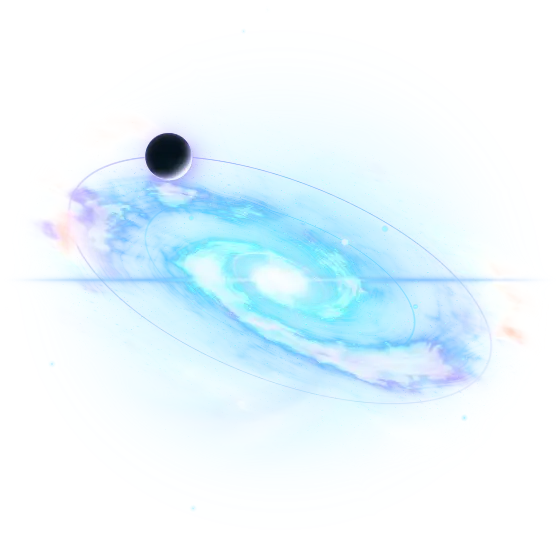
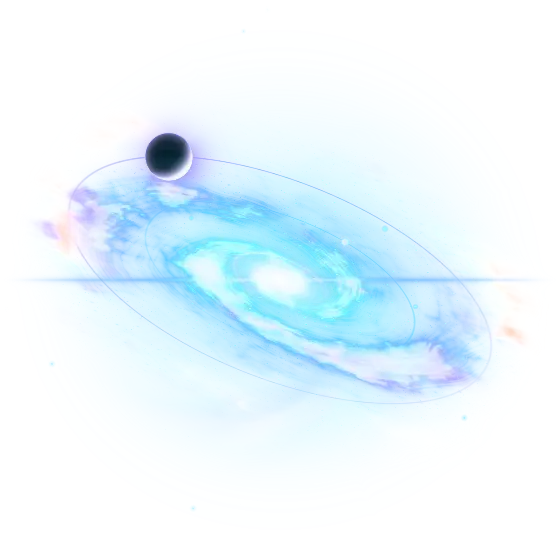
Session AR (round 1 fixes): a rim-lit planet and heavier state marks on the star (still pictures redrawn); the read-out's ring only from an answer's first line; the answer's key names its own widget; the console re-measures its wing; the Wealth hero's lower strip is whole; a goal's status on one lin
Specs changed on purpose (each 'Session AR (…, deliberate)' with an equally strict replacement): hud-elements and hud-fit
(the read-outs step aside from three widgets; where they show is nova-compose-ar 'the read-outs'), hud-fit (the pace line
whole where drawn, and drawn when the Goals HUD is a hero: a new test), hud-review2 (every ring that is drawn; today's
ring as the Habits hero's instrument), hud-elements (the Agenda clock as a compact plate at 1920), nova-setup:157 (leaves
once the conversation is stored), ar-matrix-drag (-0 is 0).

Claude-Session: https://claude.ai/code/session_015semg7JG7mnxSM4xCLdoHf

Changed region(s): [[0.2429, 0.2125, 0.3643, 0.3339]]

diff --git a/apps/web/tests/grok53/hud/hud-fit.spec.ts b/apps/web/tests/grok53/hud/hud-fit.spec.ts
@@ -58,14 +58,18 @@ for (const [width, height, least] of [[1440, 900, 3], [1920, 1080, 4]] as const)
     for (const id of ['health-hud', 'habits-hud', 'goals-hud', 'wealth-hud']) expect(panels.map(p => p.id), id).toContain(id);
     // The Goals pace line and its projection's names are in view at the medium size (they never showed before).
     const goals = panel(page, 'Goals HUD');
-    if (await goals.locator('.holo-pace-chart').count()) await expect(goals.locator('.holo-pace-chart svg')).toBeInViewport({ratio: 1});
+    // Session AR (P3, deliberate): in the Showcase's arrangement the Goals HUD is a supporting panel (its three arcs); the
+    // pace line is drawn where the panel has room for it, and wherever it is drawn it is whole in the window. That it IS
+    // drawn at this size when the Goals HUD is its wing's hero is the test under this loop.
+    if (await goals.locator('.holo-pace-chart svg').isVisible()) await expect(goals.locator('.holo-pace-chart svg')).toBeInViewport({ratio: 1});
     // The core's readout and the words under the orb clear the command field; NOVA's name and state clear the rings.
     const foot = (await page.locator('.nova-foot').boundingBox())!;
-    // Session AM (design review AM-D33, deliberate): the read-out shows where the star's column has room for it (1920) and
-    // is hidden, not squeezed, at 1440; where it shows it clears the command field as before.
+    // Session AR (round 1, deliberate): from three widgets the four read-outs step aside on the composed stage, at every
+    // width (they are in the page, hidden; where they show and clear the command field is tests/nova-compose-ar.spec.ts,
+    // "the read-outs"). The greeting and the day line clear the command field as before.
     const readout = page.locator('.holo-core-readout');
-    if (width >= 1920) await expect(readout).toBeVisible(); else await expect(readout).toBeHidden();
-    for (const sel of [...(width >= 1920 ? ['.holo-core-readout'] : []), '.nova-greeting', '.nova-dayline']) {
+    await expect(readout).toBeHidden();
+    for (const sel of ['.nova-greeting', '.nova-dayline']) {
       const b = (await page.locator(sel).boundingBox())!;
       expect(b.y + b.height, `${sel} above the command field`).toBeLessThanOrEqual(foot.y + 0.5);
     }
@@ -73,9 +77,30 @@ for (const [width, height, least] of [[1440, 900, 3], [1920, 1080, 4]] as const)
     expect(name.y + name.height, 'NOVA’s name above the rings').toBeLessThanOrEqual(rings.y + 1);
     expect(state.y, 'the state under the rings').toBeGreaterThanOrEqual(rings.y + rings.height - 1);
     // AM-D33, deliberate: the four read-outs are a named list where they show (1920); at 1440 the same four are in the page, hidden.
-    if (width >= 1920) await expect(page.getByRole('list', {name: 'Today’s core'}).locator('li')).toHaveCount(4); else await expect(readout.locator('li')).toHaveCount(4);
+    await expect(readout.locator('li')).toHaveCount(4);
   });
 }
+
+test('B2 (Session AR): as its wing’s hero at 1440 × 900 the Goals HUD draws its pace line, whole and in view', async ({page}) => {
+  await page.setViewportSize({width: 1440, height: 900});
+  await page.clock.install({time: NOON});
+  await showcaseNova(page);
+  // The Showcase's own arrangement with the Goals HUD first (its records live in the session's storage).
+  await page.evaluate(key => {
+    const k = Object.keys(sessionStorage).find(x => x.endsWith(`:${key}`))!, record = JSON.parse(sessionStorage.getItem(k)!) as {widgets: {id: string; size: string; slot: number}[]};
+    const first = record.widgets.filter(w => w.id === 'goals-hud'), rest = record.widgets.filter(w => w.id !== 'goals-hud');
+    sessionStorage.setItem(k, JSON.stringify({...record, widgets: [...first, ...rest].map((w, slot) => ({...w, slot}))}));
+  }, NOVA_KEY);
+  await page.goto('/app/nova'); await hydrated(page);
+  await expect(frame(page)).toHaveAttribute('data-opening', 'done', {timeout: 10_000});
+  const goals = panel(page, 'Goals HUD');
+  await expect(goals).toHaveAttribute('data-tier', 'hero');
+  await expect(goals.locator('.holo-pace-chart svg')).toBeVisible();
+  await expect(goals.locator('.holo-pace-chart svg')).toBeInViewport({ratio: 1});
+  await expect(goals.getByText('Estimate', {exact: true})).toHaveCount(1);
+  const panels = await besideTheStar(page), mine = panels.find(p => p.id === 'goals-hud')!;
+  expect(mine.outside, 'every drawing inside the panel').toBe(0); expect(mine.cut).toBe(false); expect(mine.overflow).toBeLessThanOrEqual(1);
+});
 
 test('M2: on the Health HUD preset the large panel is a wide hero, its histogram whole', async ({page}) => {
   await page.setViewportSize({width: 1440, height: 900});

diff --git a/apps/web/components/nova/nova-dashboard.tsx b/apps/web/components/nova/nova-dashboard.tsx
@@ -148,7 +148,11 @@ function useWingWidth(frame: {current: HTMLElement | null}, on: boolean): number
       setWing(was => was === next ? was : next);
     };
     read();
+    // Session AR: the wing and the star's column are watched too. On the composed stage the column is set in px a render
+    // after the stage's width changes ("the star makes room"), so the wing can change while the stage's own box does not;
+    // the console then kept the width of a wing that no longer was (66 px wider than it: p3-nova-polish ND-7).
     const observer = new ResizeObserver(read); observer.observe(main); observer.observe(centre);
+    for (const part of main.querySelectorAll<HTMLElement>(':scope > .nova-orbit-side[data-side=right], :scope > .nova-orbit-centre')) observer.observe(part);
     return () => observer.disconnect();
   }, [frame, on]);
   return wing;
@@ -576,7 +580,12 @@ export default function NovaDashboard() {
   const star = <LoadBoundary quiet onFail={onStarFail}><Suspense fallback={null}><StarSystem state={shownOrb} hud={hudMove.state} accent={accent} phone={phone} size={starSize} column={plan ? plan.column : stage.shown.length && !phone && hudWide > 900 ? Math.round(starColumn) : undefined} beam={beam} onReport={onStarReport} onMount={onStarMount}/></Suspense></LoadBoundary>;
   const starWhy = starLost ? {kind: 'picture', text: STAR_NO_CODE_TEXT} : starReport && (starReport.why || starReport.always) ? {kind: starReport.why?.kind ?? 'running', text: starReport.why?.text ?? 'The star is running', details: starReport.details, open: starReport.always} : null;
   // Design review AM-D18: from the answer, one keypress to the widget it made (the newest one that is still on the stage).
-  const answerWidget = lastMade && stage.shown.some(w => w.id === lastMade) ? {id: lastMade, title: widgetSpec(lastMade)?.title ?? 'the widget'} : null;
+  // Session AR (round 1, both critics: an answer about bills offered "Go to Habits this week"): the key names a widget
+  // of THIS answer that stands on the stage. It named the widget made last, whatever was asked since; an answer that made
+  // no widget has no such key.
+  const answerOwn = answerNow?.widgets?.find(id => stage.shown.some(w => w.id === id)) ?? (answerNow && !answerNow.widgets ? null : undefined);
+  const answerId = answerOwn === undefined ? (lastMade && stage.shown.some(w => w.id === lastMade) ? lastMade : null) : answerOwn;
+  const answerWidget = answerId ? {id: answerId, title: widgetSpec(answerId)?.title ?? 'the widget'} : null;
   const goToWidget = (id: string) => { const el = root.current?.querySelector<HTMLElement>(`article[data-widget="${id}"]`); if (el) { el.scrollIntoView({block: 'nearest'}); el.focus({preventScroll: true}); } };
   const answerLine = answerNow && !chatOpen ? <StageAnswerLine answer={answerNow} persona={persona.name} onOpen={openChat} onDismiss={() => setAnswer(null)} widget={answerWidget} onGoTo={goToWidget}/> : undefined;
   const stageNode = <NovaStage persona={persona} orb={shownOrb} greeting={greeting} typingFrom={opening.phase === 'play' ? opening.startedAt : null} counts={counts} showcase={showcase && phone} onTalk={openChat} talkOpen={chatOpen} core={core} star={star} starOn={starDraws} starStandIn={starStandIn} accent={accent} starBox={starBox} starSize={starSize} starColumn={plan ? plan.column : stage.shown.length && !phone && hudWide > 900 ? Math.round(starColumn) : undefined} starWhy={starWhy} answer={answerLine}/>;

diff --git a/apps/web/components/nova/stage/command-centre.css b/apps/web/components/nova/stage/command-centre.css
@@ -192,6 +192,8 @@
 .nova-frame[data-look=holo]:not([data-phone]) .nova-orbit-main[data-compose] > .nova-orbit-side[data-side=right] > .nova-widget[data-holo][data-tier] { justify-self: end; }
 .nova-frame:not([data-phone]) .nova-orbit-main[data-compose] .nova-widget[data-holo][data-tier=hero]:not([data-dragging]):not(#\-) { --rim: 2.2px; }
 .nova-orbit-main[data-compose] .nova-widget[data-holo][data-tier=hero] > .holo-aura { box-shadow: var(--holo-bloom), 0 0 84px 8px color-mix(in srgb, var(--neon, #9273ff) 30%, transparent); }
+/* A Large hero keeps the Large panel's own magenta haze (holo.css) under the hero's. */
+.nova-orbit-main[data-compose] .nova-widget[data-holo][data-tier=hero][data-size=L] > .holo-aura { box-shadow: var(--holo-bloom), 0 0 84px 8px color-mix(in srgb, var(--neon, #9273ff) 30%, transparent), 0 0 90px 10px #f06dff2b; }
 .nova-frame:not([data-phone]) .nova-orbit-main[data-compose] .nova-widget[data-holo][data-tier=supporting]:not([data-dragging]):not(#\-) { --rim: 1px; }
 .nova-orbit-main[data-compose] .nova-widget[data-holo][data-tier=supporting] > .holo-aura { opacity: .45; }
 .nova-orbit-main[data-compose] .nova-widget[data-holo][data-tier=supporting] > .holo-brackets { opacity: .5; }
@@ -205,3 +207,18 @@
    bezel's pillar arcs carry the same four): the populated stage has one hierarchy. They stay in the page, hidden as on a
    narrower stage, and show again with one or two widgets and on the calm stage. */
 .nova-frame[data-fill=full]:not([data-phone]) .nova-stage .holo-core-readout { display: none; }
+
+/* ==== Session AR, round 1 (both critics: "the four states differ only in tick detail") ====
+   In a state the standby bezel steps back and the state's own mark carries the weight, so each state is a different
+   SHAPE at a glance: listening a heavy lit ring with long ticks pointing in, thinking a thick ring in segments, speaking a
+   ticked rim with two strong rings inside it. Static drawings; only opacity changes, once per change of state. */
+.cc-bezel :is(.cc-bezel-line, .cc-bezel-ticks, .cc-bezel-marks, .cc-bezel-arc, .cc-bezel-glow) { transition: opacity .35s ease-out; }
+.cc-bezel:is([data-state=listening], [data-state=thinking], [data-state=speaking]) :is(.cc-bezel-line, .cc-bezel-ticks, .cc-bezel-marks, .cc-bezel-arc, .cc-bezel-glow) { opacity: .22; }
+.cc-state-ring { stroke-width: 2.6; }
+.cc-state-ticks { stroke-width: 8.4; }
+.cc-state-faint { stroke-width: 1.2; opacity: .8; }
+.cc-state-thinking .cc-state-ring { stroke-width: 4.2; }
+.cc-state-thinking .cc-state-faint { stroke-width: 2.4; }
+.cc-state-speaking .cc-state-ring { stroke-width: 3.2; }
+@media (prefers-reduced-motion: reduce) { .cc-bezel :is(.cc-bezel-line, .cc-bezel-ticks, .cc-bezel-marks, .cc-bezel-arc, .cc-bezel-glow) { transition: none; } }
+:root[data-app-motion=off] .cc-bezel :is(.cc-bezel-line, .cc-bezel-ticks, .cc-bezel-marks, .cc-bezel-arc, .cc-bezel-glow) { transition: none; }

diff --git a/apps/web/tests/grok53/hud/hud-elements.spec.ts b/apps/web/tests/grok53/hud/hud-elements.spec.ts
@@ -48,8 +48,10 @@ for (const [width, height] of [[1440, 900], [1920, 1080]] as const) {
     const core = page.locator('.holo-core-readout[aria-label="Today’s core"]');
     await expect(core.locator('li')).toHaveCount(4);
     await expect(core.locator('li .holo-core-bar')).toHaveCount(4);
-    if (width >= 1920) { await expect(page.getByRole('list', {name: 'Today’s core'})).toBeVisible(); await expect(page.getByRole('list', {name: 'Today’s core'}).getByRole('listitem')).toHaveCount(4); }
-    else { await expect(core).toBeHidden(); await expect(page.getByRole('list', {name: 'Today’s core'})).toHaveCount(0); }
+    // Session AR (round 1, deliberate): on the composed stage the four read-outs step aside from three widgets (the panels
+    // beside the star and the bezel's pillar arcs say the same four), at every width; they stay in the page as above.
+    // Where they show and read as a list (one or two widgets at 1920) is tests/nova-compose-ar.spec.ts, "the read-outs".
+    await expect(core).toBeHidden(); await expect(page.getByRole('list', {name: 'Today’s core'})).toHaveCount(0);
 
     // Health (medium, beside the star): the kcal ring and its meters, each with its target in words, and its table.
     const health = panel(page, 'Health HUD');
@@ -78,7 +80,12 @@ for (const [width, height] of [[1440, 900], [1920, 1080]] as const) {
 
     // Habits (segmented orbit rings), the Agenda clock (its hours in words) and every instrument's table.
     await expect(panel(page, 'Habits HUD').locator('.holo-stack-box')).toBeVisible();
-    await expect(panel(page, 'Agenda clock').locator('.holo-dial-hour')).toHaveCount(4);
+    // Session AR (P3, deliberate): on the composed stage the Agenda clock is a compact plate at 1920 (its dial at the
+    // plate's height with the day's figure beside it) and rests on the band at 1440 as the Medium body with its four hour
+    // words; its table says the hours either way (the next line).
+    const agenda = panel(page, 'Agenda clock');
+    if (await agenda.getAttribute('data-size') === 'S') { await expect(agenda).toHaveAttribute('data-tier', 'compact'); await expect(agenda.locator('.holo-ring').first()).toBeVisible(); }
+    else await expect(agenda.locator('.holo-dial-hour')).toHaveCount(4);
     for (const name of ['Health HUD', 'Habits HUD', 'Goals HUD', 'Wealth HUD', 'Agenda clock']) await expect(panel(page, name).locator('table caption'), name).toHaveCount(1);
     // Review p3: the lens ring is the core's alone.
     await expect(page.locator('.nova-widget .holo-lens')).toHaveCount(0);

diff --git a/apps/web/tests/grok53/hud/hud-review2.spec.ts b/apps/web/tests/grok53/hud/hud-review2.spec.ts
@@ -80,8 +80,14 @@ for (const [width, height] of [[1280, 720], [1440, 900], [1920, 1080]] as const)
     await goals.scrollIntoViewIfNeeded();
     expect(await outsideItsPanel(page, '.nova-widget[data-widget="goals-hud"]')).toEqual([]);
     if (await goals.locator('.holo-pace-chart').count()) await expect(goals.getByText('Estimate', {exact: true})).toHaveCount(1);
-    for (const sel of ['.holo-health .holo-ring', '.holo-habits .holo-dial']) {
+    // Session AR (Part 2, deliberate): as its wing's hero the Habits HUD's instrument is today's ring; its 30-day dial is
+    // drawn where the panel is a supporting one or rests on the band. Every ring that is drawn is checked as before;
+    // today's ring carries its word ("today") inside it by design, so it is checked for its figure.
+    let checked = 0;
+    for (const sel of ['.holo-health .holo-ring', '.holo-habits .holo-dial', '.holo-habits .holo-today']) {
       const ring = page.locator(sel).first();
+      if (!await ring.isVisible()) continue;
+      checked++;
       await ring.scrollIntoViewIfNeeded();
       const g = await ring.evaluate(el => {
         const b = el.getBoundingClientRect(), fig = el.querySelector('.holo-ring-centre .holo-num-ring')!.getBoundingClientRect(), words = el.querySelector('.holo-ring-centre small')?.getBoundingClientRect();
@@ -92,8 +98,9 @@ for (const [width, height] of [[1280, 720], [1440, 900], [1920, 1080]] as const)
       });
       expect(g.figWidth, `${sel}: the figure is narrower than the ring's inside`).toBeLessThanOrEqual(g.inner);
       expect(g.corner, `${sel}: the figure's box stays inside the ring's stroke`).toBeLessThanOrEqual(g.inner / 2 + 6);
-      expect(g.wordsBelow, `${sel}: its words sit under the ring`).toBe(true);
+      if (!sel.endsWith('.holo-today')) expect(g.wordsBelow, `${sel}: its words sit under the ring`).toBe(true);
     }
+    expect(checked, 'the kcal ring and at least one of the Habits HUD’s rings are drawn').toBeGreaterThanOrEqual(2);
   });
 }
 

diff --git a/apps/web/lib/nova/core/star-shader.ts b/apps/web/lib/nova/core/star-shader.ts
@@ -168,13 +168,16 @@ void main(){
     vec2 n = d/pr; float nz = sqrt(max(0., 1.-dot(n,n)));
     vec3 nrm = normalize(vec3(n, nz)); vec3 L = normalize(vec3(-po/max(length(po), 1e-4), -.12));
     float lit = max(0., dot(nrm, L));
-    float rim = sq(1.-nz)*sqrt(max(1.-nz, 0.)), facing = max(0., dot(n, -po/max(length(po), 1e-4)));
-    // A body in every frame: a dark globe with faint bands, a thin lit limb all the way round, brightest toward the core.
+    float rim = sq(1.-nz), facing = max(0., dot(n, -po/max(length(po), 1e-4)));
+    // A body in every frame: a dark globe with faint bands, a lit limb all the way round, brightest toward the core.
+    // Session AR (round 1, both critics: "the planet reads as a hole cut into the bezel"): the limb is wider and
+    // brighter, the hemisphere that faces the core carries its light, and the bands show: a rim-lit planet, not a disc
+    // of black (owner screenshot 4).
     float cres = sq(sq(lit)) * lit;
-    vec3 pc = vec3(.008,.011,.034) + uA * .075 * nz * (.6 + .4*noise(vec2(n.y*9., 2.))) + mix(uC, vec3(1.), .78) * (cres * 2.6 + sq(lit)*.35) + mix(uB, vec3(1.), .5) * rim * (1.1 + 5.6*facing);
+    vec3 pc = vec3(.012,.016,.046) + uA * .17 * nz * (.6 + .4*noise(vec2(n.y*9., 2.))) + mix(uC, vec3(1.), .78) * (cres * 3.1 + sq(lit)*.8) + mix(uB, vec3(1.), .5) * rim * (1.9 + 6.4*facing);
     col = mix(col, pc, solid);
   }
-  col += uB * exp(-max(pd-pr, 0.)*70.) * (.16 + .3*max(0., dot(d, -po)/max(pd*length(po), 1e-4))) * (1.-behind) * (1.-body);
+  col += uB * exp(-max(pd-pr, 0.)*52.) * (.26 + .5*max(0., dot(d, -po)/max(pd*length(po), 1e-4))) * (1.-behind) * (1.-body);
   // ---- fade to nothing at the edge; a filmic curve that keeps the colours' own hue ----
   col *= dn(.28,.5, rr);
   // Beside widgets the star may be wider than its column: its light dissolves toward the wings (uEdge: half the column's

diff --git a/apps/web/tests/nova-setup.spec.ts b/apps/web/tests/nova-setup.spec.ts
@@ -165,6 +165,18 @@ test('planet 4: a first question is asked on NOVA itself (one shared history) un
   await expect(page.locator('.nova-turn').filter({hasText: 'What does my day look like?'}).first()).toBeVisible();
   // Answered on the device (NOVA's local answers) or by the MOCK local model: either way one question and one answer.
   await expect(page.locator('.nova-turn-assistant').first()).toBeVisible();
+  // Session AR (nova-setup:157, deliberate; every assertion unchanged): the conversation is written to the device a moment
+  // after the answer is drawn (the database is opened, then the write commits), and a browser drops a write that has not
+  // committed when its page is left. This spec left within the same frame, so under load the check below found nothing
+  // (the phone project in a sandbox on every build; the desktop project under two workers). It now leaves once the device
+  // holds the question and its answer, as a person who has read the answer does.
+  await expect.poll(() => page.evaluate(() => new Promise<number>(resolve => {
+    const request = indexedDB.open('zigoals-ai-chats-v1');
+    request.onerror = () => resolve(0);
+    request.onsuccess = () => { const db = request.result; if (!db.objectStoreNames.contains('chats')) { db.close(); resolve(0); return; }
+      const all = db.transaction('chats').objectStore('chats').getAll(); all.onerror = () => { db.close(); resolve(0); };
+      all.onsuccess = () => { db.close(); resolve(Math.max(0, ...(all.result as {turns?: unknown[]}[]).map(c => c.turns?.length ?? 0))); }; };
+  })), {timeout: 15_000}).toBeGreaterThanOrEqual(2);
   await page.goto('/app/nova/setup');
   const again = await open(page, 'First conversation', 'first-chat');
   await check(again, /Check my conversation/);

diff --git a/apps/web/tests/nova-compose-ar.spec.ts b/apps/web/tests/nova-compose-ar.spec.ts
@@ -180,6 +180,23 @@ test('P3: while arranging, panels show in their stored sizes on the earlier rows
   expect((await stageOf(page)).composed).toBe(false);
 });
 
+test('the read-outs: with one or two widgets at 1920 × 1080 the four read-outs under the star are a list, clear of the command field; from three widgets they step aside', async ({page}) => {
+  await page.setViewportSize({width: 1920, height: 1080});
+  await page.clock.install({time: NOON});
+  await showcaseNova(page, PILLARS.slice(0, 2));
+  const list = page.getByRole('list', {name: 'Today’s core'});
+  await expect(list).toBeVisible();
+  await expect(list.getByRole('listitem')).toHaveCount(4);
+  await expect(list.locator('li .holo-core-bar')).toHaveCount(4);
+  const foot = (await page.locator('.nova-foot').boundingBox())!, box = (await list.boundingBox())!;
+  expect(box.y + box.height, 'the read-outs end above the command field').toBeLessThanOrEqual(foot.y + 0.5);
+  const s = await stageOf(page);
+  expect(overlap({x: box.x, y: box.y, w: box.width, h: box.height}, s.ring), 'the read-outs stand under the bezel, not on it').toBe(false);
+  await showcaseNova(page, PILLARS);
+  await expect(page.locator('.holo-core-readout')).toBeHidden();
+  await expect(page.locator('.holo-core-readout li')).toHaveCount(4);
+});
+
 test('P3 at 2560 × 1440: a wing is a Large hero, a supporting panel and a compact plate, each smaller than the one before', async ({page}) => {
   await page.setViewportSize({width: 2560, height: 1440});
   await page.clock.install({time: NOON});

diff --git a/apps/web/components/nova/chat/nova-turns.tsx b/apps/web/components/nova/chat/nova-turns.tsx
@@ -97,8 +97,11 @@ export function NovaReplyTurn({turn, asked, mark, isLast, earlier, busy, common,
   // Session AM-3 (round 7): the instrument — that ring with the words it was read from, or the count the answer opens with.
   const figures = useMemo(() => {
     if (turn.source !== 'local' || reply?.kind === 'refusal' || reply?.kind === 'examples') return null;
-    const words = plainText(parseBlocks(parsed.text)), gauge = gaugeOf(words);
-    return gauge ? {gauge, caption: gaugeWords(words), count: null} : {gauge: null, caption: null, count: countOf(words)};
+    // Session AR (round 1, both critics: "the 2 OF 2 headline and its ring do not match the answer: 12 check-ins over 7
+    // habits"): the ring is read from the answer's own first line only. A part of a whole further down is one row of a
+    // list ("Read: 2 of 2 planned days"), not the answer's figure, and made a headline of the first habit's week.
+    const words = plainText(parseBlocks(parsed.text)), lead = words.split('\n').find(line => line.trim()) ?? '', gauge = gaugeOf(lead);
+    return gauge ? {gauge, caption: gaugeWords(lead), count: null} : {gauge: null, caption: null, count: countOf(words)};
   }, [turn.source, reply?.kind, parsed.text]);
   const gauge = figures?.gauge ?? null, instrument = figures && (figures.gauge || figures.count) ? figures : null;
   const copy = () => { copyText(`${plainText(parseBlocks(parsed.text))}\n\n${full}`).then(() => { setCopied(true); window.setTimeout(() => setCopied(false), 1500); }).catch(() => undefined); };

diff --git a/apps/web/components/nova/holo/holo-parts.css b/apps/web/components/nova/holo/holo-parts.css
@@ -1477,3 +1477,15 @@
   .nova-widget[data-tier=compact] .holo-tasks[data-size=S] .holo-counters { display: grid; grid-auto-flow: row; gap: 2px; }
   .nova-widget[data-tier=compact] .holo-tasks[data-size=S] .holo-counters dd { font-size: 22px; }
 }
+
+/* ---- Session AR, round 1 (both critics: the Wealth hero's legend row "Crypto 4%" cut by the panel, "$437,700.0…") ----
+   A hero's figure is up to 64 px, so its head is taller than the Large body's own allowance for the chart assumed: the
+   chart gives the head and the lower strip their room, and the line that says what is set aside wraps instead of ending
+   in an ellipsis. */
+@container holo-body (min-width: 400px) and (max-width: 559.98px) {
+  .nova-widget[data-tier=hero] .holo-wealth[data-size=L] { --wave-h: clamp(48px, calc(100cqh - 392px), 240px); }
+}
+.nova-widget[data-tier] .holo-wealth .holo-purpose-words { white-space: normal; overflow: visible; text-overflow: clip; text-wrap: balance; }
+/* Session AR, round 1 ("Emergency / fund / Ahead of plan": a goal's status on two uneven lines under its ring): in a
+   panel beside the star the status is one line wherever a third of the body holds it (it is at most "Behind plan"). */
+@container holo-body (min-width: 280px) { .nova-widget[data-tier] .holo-arcs .holo-pace-words { white-space: nowrap; text-wrap: nowrap; letter-spacing: -.005em; } }

diff --git a/apps/web/lib/nova/compose.test.ts b/apps/web/lib/nova/compose.test.ts
@@ -123,8 +123,8 @@ describe('Session AR (ADR-041 S1, S2): the star makes room', () => {
     expect(large.column * 0.98 / 1124).toBeGreaterThanOrEqual(0.45); // the bezel is at least 45 % of the stage
     expect((1124 - large.column - 40) / 2).toBeGreaterThanOrEqual(WING_MIN);
     expect(at(2)).toEqual(large);
-    // From three widgets each wing keeps 318 px (a one-row head on a supporting panel).
-    for (const n of [3, 4, 5]) expect((1124 - at(n).column - 40) / 2, `${n} widgets`).toBeGreaterThanOrEqual(318);
+    // From three widgets each wing keeps 328 px (a one-row head on a supporting panel).
+    for (const n of [3, 4, 5]) expect((1124 - at(n).column - 40) / 2, `${n} widgets`).toBeGreaterThanOrEqual(328);
     // It steps down widget by widget and never goes below main's.
     const sizes = [2, 3, 4, 5, 6].map(n => at(n));
     for (let i = 1; i < sizes.length; i++) { expect(sizes[i]!.column).toBeLessThanOrEqual(sizes[i - 1]!.column); expect(sizes[i]!.size).toBeGreaterThanOrEqual(511); }

diff --git a/apps/web/tests/ar-matrix-drag.spec.ts b/apps/web/tests/ar-matrix-drag.spec.ts
@@ -51,7 +51,7 @@ test('a mouse drag moves a card to another box, changes only its priority, survi
   // While dragging: the box under the pointer is outlined, the card follows it, and no box moves (no layout shift).
   await matrixInView(page);
   const boxes = page.locator('.tasks-matrix-box');
-  const places = () => boxes.evaluateAll(list => list.map(e => { const r = e.getBoundingClientRect(); return [r.x, r.y, r.width, r.height].map(Math.round); }));
+  const places = () => boxes.evaluateAll(list => list.map(e => { const r = e.getBoundingClientRect(); return [r.x, r.y, r.width, r.height].map(v => Math.round(v) + 0); })); // + 0: a box a fraction of a pixel above the window rounds to -0, which is not 0 to toEqual (one run in seven failed on that alone)
   const before = await places();
   await mouseDrag(page, plumberTitle, urgent.locator('h3'), async () => {
     await expect(urgent).toHaveAttribute('data-drop', 'true');
